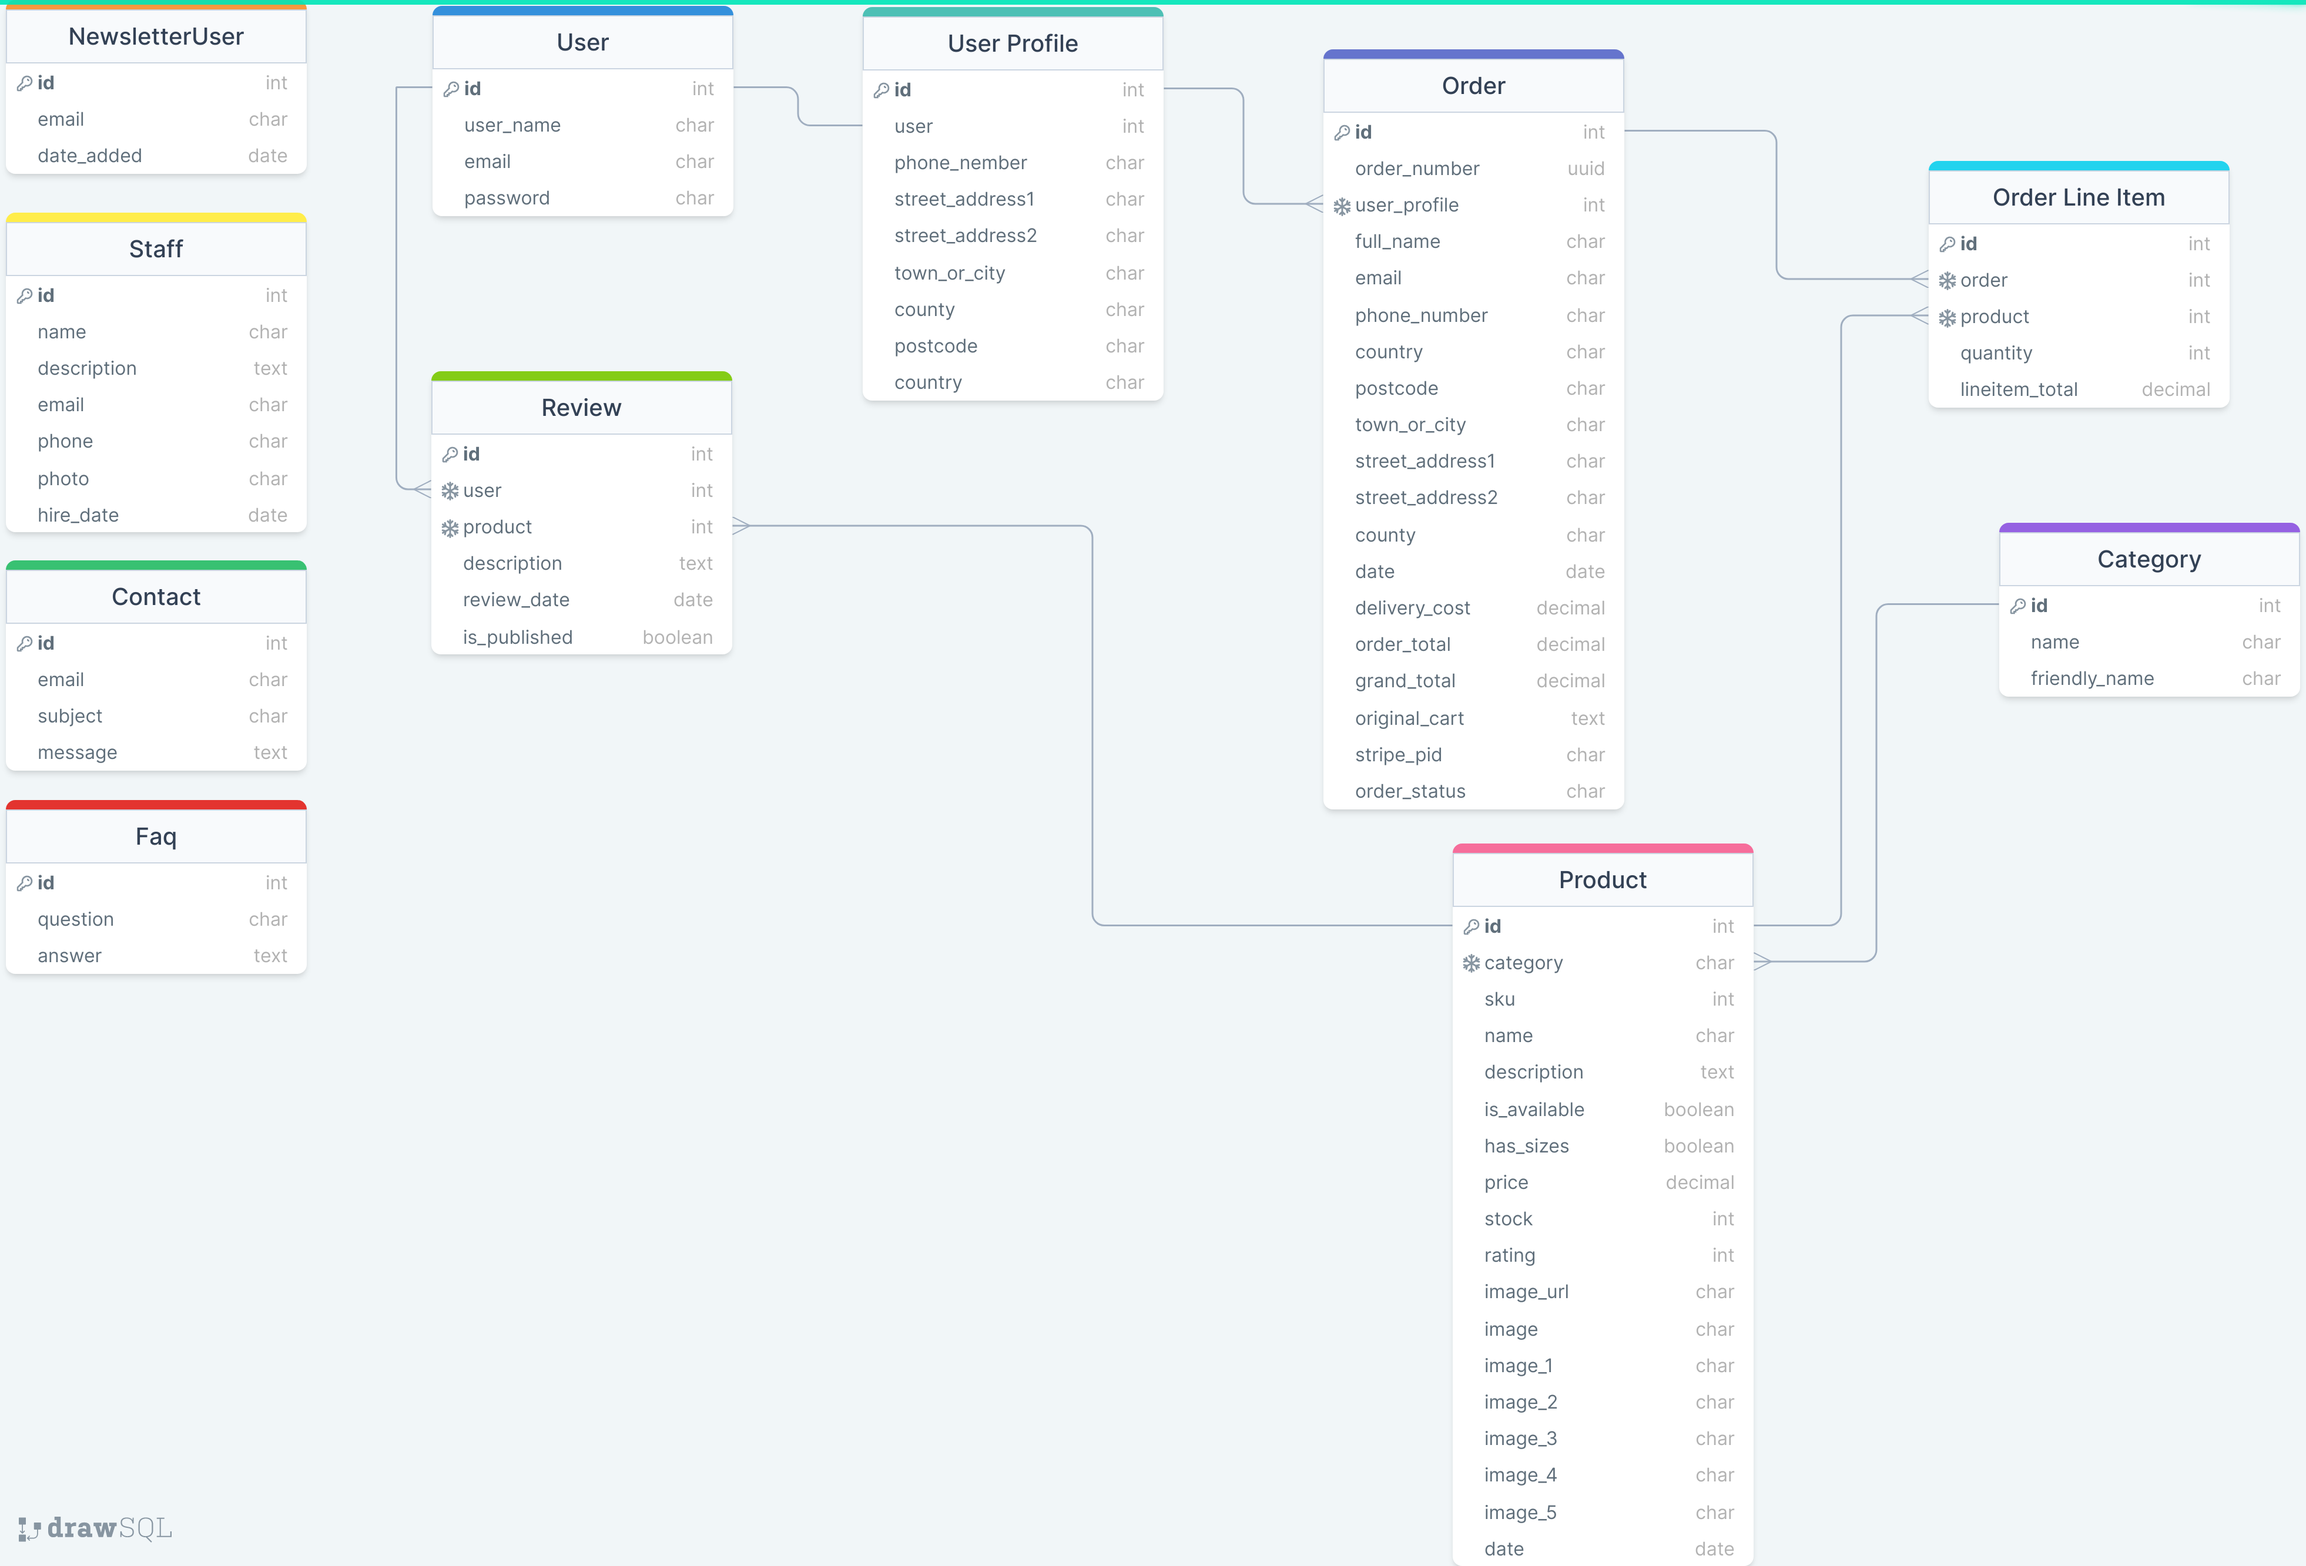
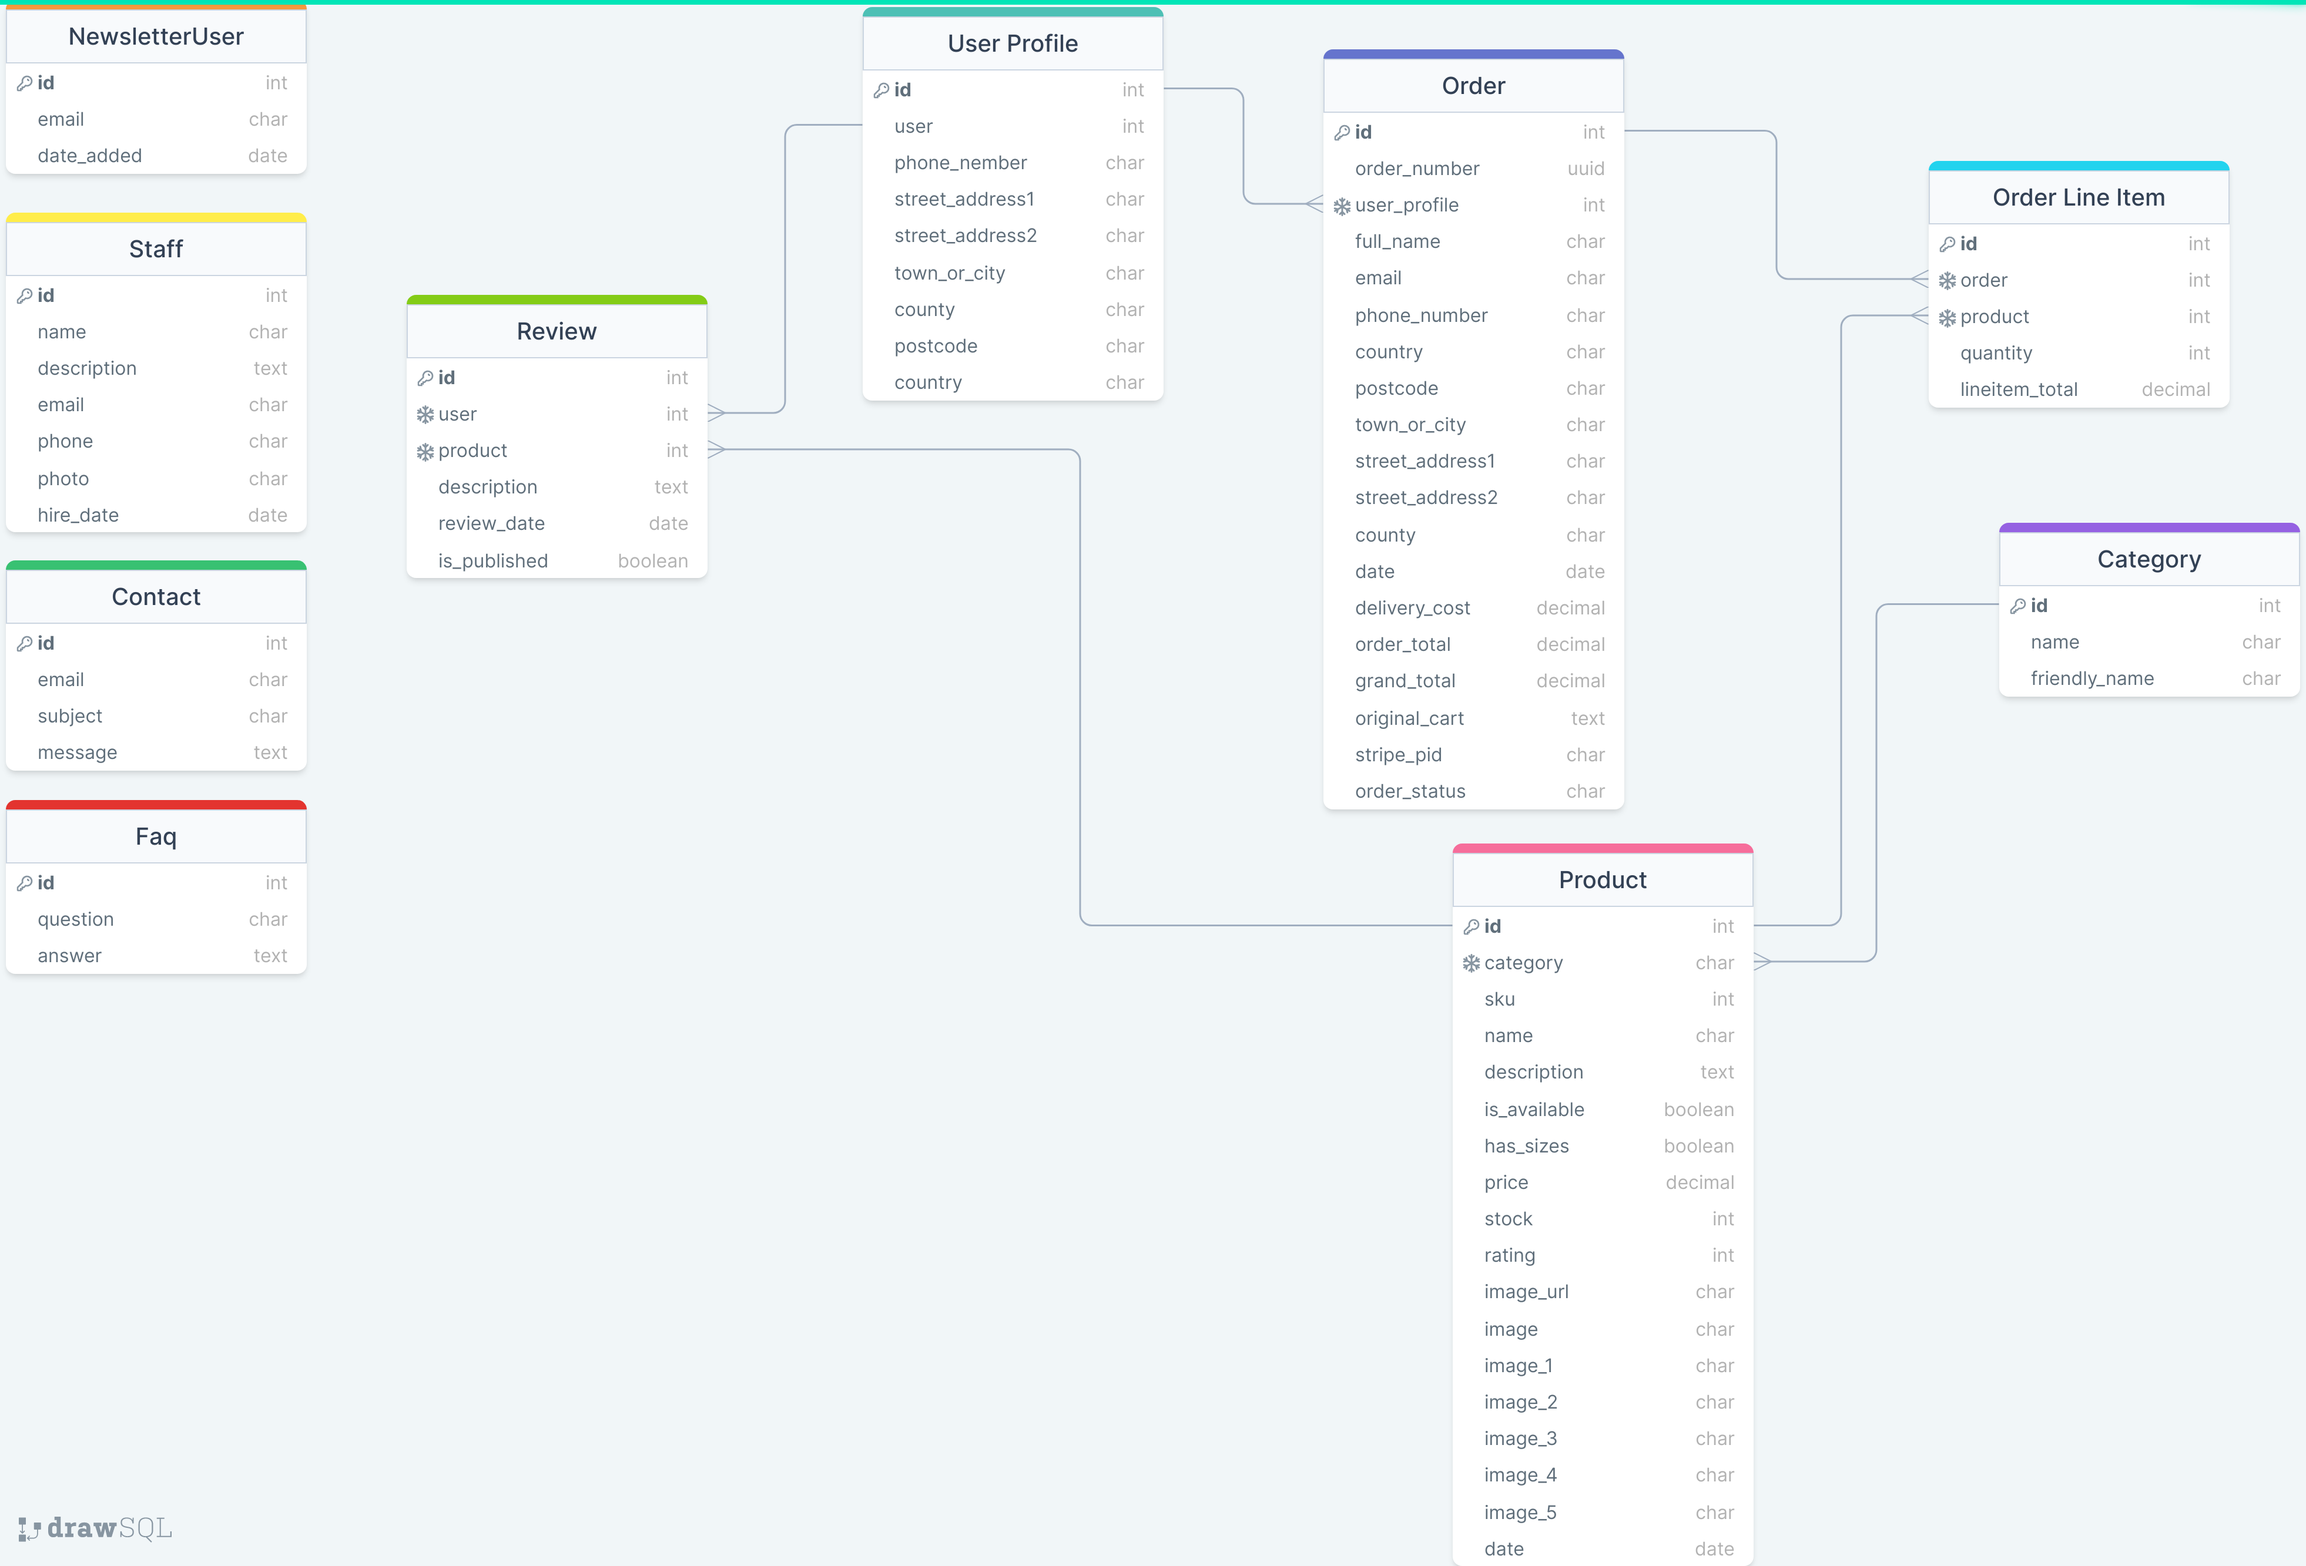
Review the readme.md and correct typo errors. Replace the database-desing image

diff --git a/README.md b/README.md
@@ -226,11 +226,11 @@ The primary goal of the website, from a site user’s perspective, is as follows
 - As a user, I want to see the items selected for purchase to keep track of my selections
 - As a user, I want to see a running total of the shopping basket to keep track of my spending
 - As a user, I want to select multiple quantities of the same product, to order two or more of the same products
-- As a user, I want to filter the products to narrow down the products to the ones wanted
+- As a user, I want to filter the products to narrow down the products to the ones want
 - As a user, I want to easily login and logout
 - As a user, I want to register for an account
 - As a user, I want to have my user details information saved to speed up the purchase process
-- As a user, I want to have an option to recover my password if required
+- As a user, I want to have the option to recover my password if required
 - As a user, I want to have a secure payment checkout
 - As a user, I want to have an option to quickly search for a product I'm looking for
 - As a user, I want to edit the basket content
@@ -367,6 +367,7 @@ To complement the apps there are:
 - **Static**: CSS files for the website and admin panel.
 - **manage.py**: This file is used to start the site and perform functions during development.
 - **README.md**: Documentation about the project.
+- **TESTING.md**: Documentation that contains all the tests and validation reports.
 - **Requirements.txt**: Containing the project dependencies. Note: Environment variable values are not exposed in the source code as they are stored locally in env.py that is not checked in(listed in .gitignore).
 - **Procfile**: To run the application on Heroku
 - **custom_storages.py** file - to specify static and media storage location
@@ -599,15 +600,15 @@ The website has been designed using Bootstrap 4 therefore it's fully responsive 
 
 ### Homepage
 
-The home page is a simple set of navigation elements, a background image, and a carousel that displays shop now, contact and newsletter subscription options.
+The home page is a simple set of navigation elements, the background image, and a carousel that displays shop now, contact, newsletter subscription and Facebook page options.
 
-A **Shop Now** button directs the user to the “All products” page, where they can easily identify products they would like to purchase. The product list displayed on this page is always ordered by date added, i.e., the latest products added for sale by the shop admin will be displayed at the top of the page.
+The **Shop Now** button redirects the user to the “All products” page, where they can easily identify products they would like to purchase. The product list displayed on this page is always ordered by the date added, i.e., the latest products added for sale by the shop admin will be displayed at the top of the page.
 
-A **Contact** button directs the user to the page with the contact form that is used to contact the customer service team in case of any queries that the customer may have.
+The **Contact** button redirects the user to the page with the contact form that is used to contact the customer service team in case of any queries that the customer may have.
 
-A **Subscribe** button directs the user to the page where they can subscribe to the newsletter to receive information about new products, special offers, discounts, etc.
+The **Subscribe** button redirects the user to the page where they can subscribe to the newsletter to receive information about new products, special offers, discounts, etc.
 
-A **Facebook** button directs the user to the shop's Facebook page.
+The **Facebook** button redirects the user to the shop's Facebook page.
 
 ![Home page carousel](docs/images/existing_features/home_page/home-page-carousel.gif)
 
@@ -622,10 +623,10 @@ The following navbar structure is available on the medium and large screens:
 - My account  - to display information about the user account
 - Basket - to display information about the products in the basket
 - All products - link to the page with all products for sale
-- Riding gear - link to the Riding gear page
-- Vehicle equipment - link to the  vehicle equipment page
-- Accessories - link to the accessories page
-- Special Offers - link to the special offers page
+- Riding gear - link to the Riding gear category page
+- Vehicle equipment - link to the  vehicle equipment category page
+- Accessories - link to the accessories category page
+- Special Offers - link to the special offers category page
 
 ![Navbar on medium and large screens](docs/images/existing_features/navbar/navbar-medium-and-large-screens.JPG)
 
@@ -641,10 +642,10 @@ The hamburger menu contains the following links:
 
 - Home - link to the home page
 - All products - link to the page with all products for sale
-- Riding gear - link to the Riding gear page
-- Vehicle equipment - link to the  vehicle equipment page
-- Accessories - link to the accessories page
-- Special Offers - link to the special offers page
+- Riding gear - link to the Riding category gear page
+- Vehicle equipment - link to the  vehicle equipment category page
+- Accessories - link to the accessories category page
+- Special Offers - link to the special offers category page
 
 ![Navbar hamburger menu on small screens](docs/images/existing_features/navbar/navbar-small-screens-hamburger-menu.JPG)
 
@@ -716,14 +717,10 @@ Once the user clicks on the product image, they will be redirected to a page whe
 
 When the user is interested in a specific product and clicks on the product image, they will be redirected to a page where they can find additional information about the product. This page is divided into sections:
 
-[Back to Top](#table-of-contents)
-
 #### The product image section
 
 The product main photo - presents the product image. Once the image is clicked, the product photo will be opened in a new tab.
 Photos - additional photos of the product are presented as thumbnails. Clicking on any of the thumbnail images will launch the lightbox gallery, so the user will be able to view all the photos in detail (please read about thumbnails below).
-
-[Back to Top](#table-of-contents)
 
 #### The product infromation section
 
